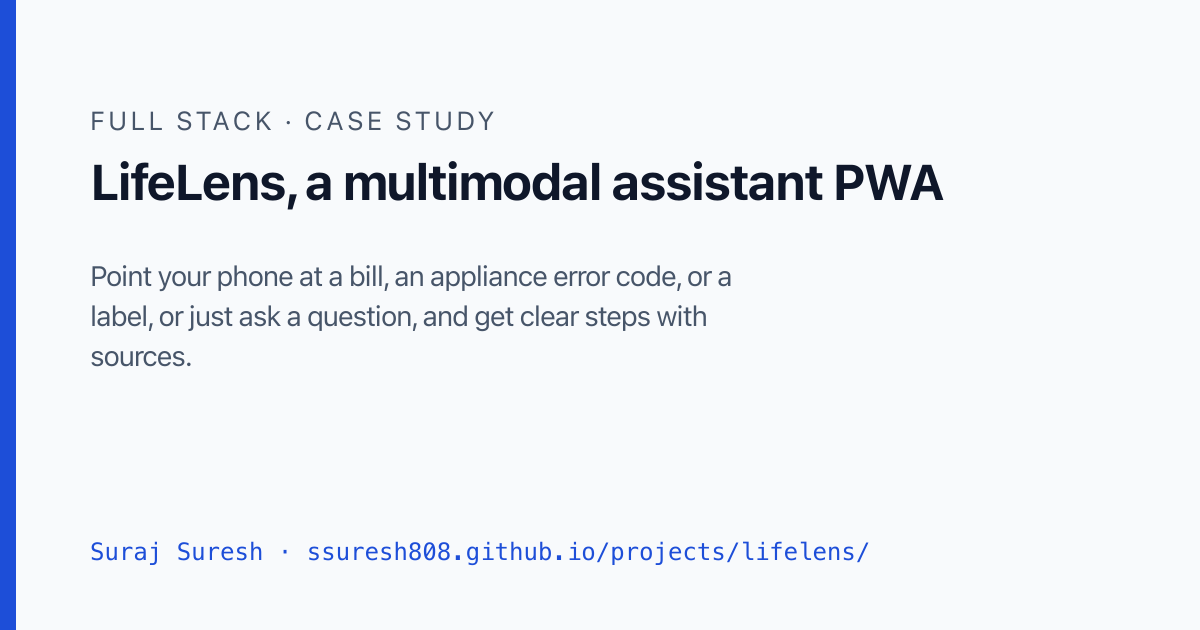
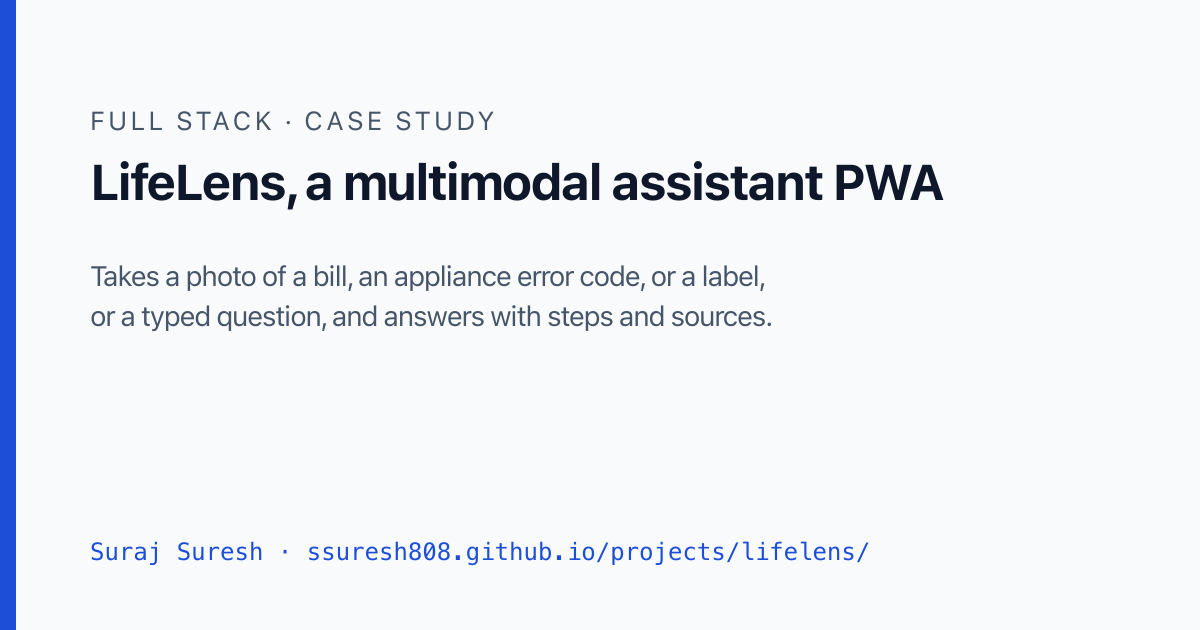
copy: second review pass

Changed region(s): [[0.0617, 0.4825, 0.6475, 0.6032], [0.0617, 0.4222, 0.6475, 0.4524]]

diff --git a/src/app/projects/page.tsx b/src/app/projects/page.tsx
@@ -16,8 +16,8 @@ export default function ProjectsPage() {
       <p className="font-mono text-xs uppercase tracking-[0.12em] text-muted">Selected work</p>
       <h1 className="mt-2 text-3xl font-semibold tracking-tight sm:text-4xl">Projects</h1>
       <p className="mt-4 max-w-prose text-muted">
-        For each project: the problem, what I built, how it works, the decisions I made, the measurements and how I
-        took them, and what I would do next.
+        Each write-up covers the problem, what I built, how it works, the decisions I made, what I measured and how,
+        and what I would do next.
       </p>
       <div className="mt-8">
         <ProjectGallery projects={projects} />

diff --git a/src/components/layout/SiteFooter.tsx b/src/components/layout/SiteFooter.tsx
@@ -8,7 +8,7 @@ export function SiteFooter({ profile }: { profile: Profile }) {
   return (
     <footer id="contact" className="border-t border-border bg-surface">
       <div className="mx-auto max-w-site px-4 py-12 sm:px-6 lg:px-8">
-        <p className="font-mono text-xs uppercase tracking-[0.12em] text-muted">Let&apos;s connect</p>
+        <p className="font-mono text-xs uppercase tracking-[0.12em] text-muted">Contact</p>
         <h2 className="mt-2 text-2xl font-semibold tracking-tight">Open to {profile.availability}</h2>
         <ul className="mt-6 flex flex-wrap gap-x-8 gap-y-3">
           <li>

diff --git a/src/app/page.tsx b/src/app/page.tsx
@@ -37,7 +37,7 @@ export default function HomePage() {
     <>
       <script type="application/ld+json" dangerouslySetInnerHTML={{ __html: JSON.stringify(personJsonLd) }} />
       <Hero profile={profile} />
-      <Section id="work" eyebrow="Selected work" title="Three projects, start to finish">
+      <Section id="work" eyebrow="Selected work" title="Three case studies">
         <FeaturedProjectGrid projects={featured} />
         <p className="mt-6 text-sm">
           <Link href="/projects/" className="font-medium text-accent underline underline-offset-4">

diff --git a/src/components/projects/EvidenceTable.tsx b/src/components/projects/EvidenceTable.tsx
@@ -9,7 +9,7 @@ export function EvidenceTable({ evidence }: { evidence: Evidence[] }) {
         Results
       </h2>
       <p className="mt-2 text-sm text-muted">
-        Each number says where it came from and links to the file in the repo that produced it.
+        Each row shows how I measured the number and links to the file in the repo that produced it.
       </p>
       <div className="table-wrap mt-4" tabIndex={0}>
         <table aria-label="Evidence" className="evidence-table">
